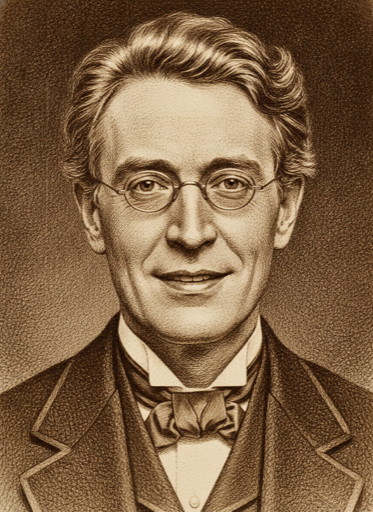
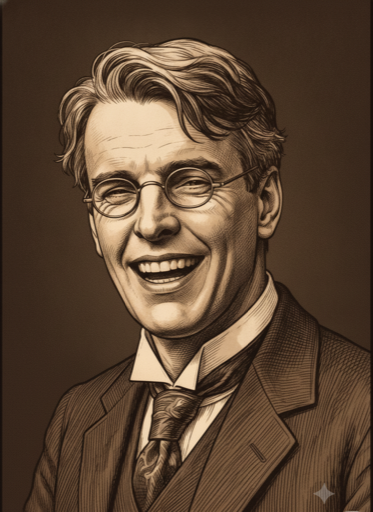
#531: regenerate Yeats reaction portraits against his baseline (closed-mouth angry)

diff --git a/scripts/fix-531-yeats-reactions.js b/scripts/fix-531-yeats-reactions.js
@@ -1,0 +1,80 @@
+'use strict';
+
+// #531 re-audit (2026-10-10) — Yeats is the one member whose promoted reaction
+// set still drifts from his own baseline: yeats.png is a flat, dark-background
+// portrait in a necktie, while yeats-happy/-thinking/-angry have a lighter
+// vignetted background and a bow tie, and -happy also reads as an older man
+// with differently styled hair. Rachel approved regenerating all three,
+// anchored to the canonical baseline only — no new prop, redesign, or outside
+// source (STYLE_GUIDE.md step 6). Blavatsky/Jung minor drifts and Böhme's
+// cool palette were deliberately left alone at her direction.
+//
+// Writes candidates only; per STYLE_GUIDE.md step 5, nothing is promoted until
+// a before/after review Artifact has had human sign-off.
+//
+// Usage: DOTENV_CONFIG_PATH=/path/to/.env node scripts/fix-531-yeats-reactions.js [happy thinking angry]
+
+require('dotenv').config();
+const fs = require('fs');
+const path = require('path');
+const {
+  generatePortraitImage,
+  buildReactionPrompt,
+  REACTION_EXPRESSION_OVERRIDE_META,
+  REACTION_STYLE_SUFFIX,
+  ANGRY_EXPRESSION_SNARL,
+} = require('../src/portrait-generation');
+
+const PORTRAITS_DIR = path.join(__dirname, '..', 'public', 'portraits');
+const CANDIDATES_DIR = path.join(PORTRAITS_DIR, 'candidates');
+
+// Every clause below describes what is visible in yeats.png itself.
+const LOCK =
+  "Keep the reference's exact outfit: dark jacket, white high collar, and a dark necktie (a long four-in-hand necktie — NOT a bow tie). Keep the same wavy swept-back hair, same wire-rimmed round spectacles, and the same apparent age as the reference — do not age him up or restyle his hair. Match the reference's border treatment: borderless, the image runs edge-to-edge with no frame. Match the reference's exact camera distance and crop — same head-and-shoulders framing and amount of torso visible; no hand gestures or props. Match the reference's background exactly: a flat, dark, matte, uniformly toned background edge to edge — no lighter halo behind the head, no vignette, no gradient.";
+
+// Closed-mouth anger that still reads as clearly angry: the plain ICY register came out
+// closer to stern than furious, so this adds concrete facial cues that never need teeth.
+const YEATS_ANGRY =
+  'Expression: unmistakable, controlled fury with the mouth fully closed (no teeth visible at all, no open snarl) — brows driven sharply down and together with a deep vertical crease between them, eyes narrowed and glaring hard straight at the viewer from beneath the lowered brow, head tilted very slightly forward, nostrils flared, lips pressed tight and downturned with the jaw clenched and the muscles at the hinge of the jaw visibly tense, a hard line from nose to mouth corner — a face of cold, seething anger, clearly angry rather than merely stern.';
+
+function buildPrompt(reaction) {
+  // buildReactionPrompt = META + expression + STYLE_SUFFIX; splice LOCK in before the style suffix.
+  let base = buildReactionPrompt(reaction, 'yeats');
+  // Rachel's review of the first angry candidate: the default snarl showed bared teeth.
+  // Yeats's anger is the closed-mouth register (#483), not the snarl.
+  if (reaction === 'angry') {
+    if (!base.includes(ANGRY_EXPRESSION_SNARL)) throw new Error('angry snarl text not found — update this script');
+    base = base.replace(ANGRY_EXPRESSION_SNARL, YEATS_ANGRY);
+  }
+  if (!base.includes(REACTION_STYLE_SUFFIX) || !base.startsWith(REACTION_EXPRESSION_OVERRIDE_META)) {
+    throw new Error('buildReactionPrompt layout changed — update this script');
+  }
+  return base.replace(REACTION_STYLE_SUFFIX, `${LOCK} ${REACTION_STYLE_SUFFIX}`);
+}
+
+async function main() {
+  const apiKey = process.env.GEMINI_API_KEY;
+  if (!apiKey) {
+    console.error('GEMINI_API_KEY not set.');
+    process.exit(1);
+  }
+  fs.mkdirSync(CANDIDATES_DIR, { recursive: true });
+  const referenceImages = [{ mimeType: 'image/png', data: fs.readFileSync(path.join(PORTRAITS_DIR, 'yeats.png')) }];
+  const reactions = process.argv.slice(2).length ? process.argv.slice(2) : ['happy', 'thinking', 'angry'];
+  let failed = false;
+  for (const reaction of reactions) {
+    const id = `yeats-${reaction}`;
+    process.stdout.write(`Generating ${id}... `);
+    try {
+      const buf = await generatePortraitImage({ apiKey, prompt: buildPrompt(reaction), referenceImages });
+      fs.writeFileSync(path.join(CANDIDATES_DIR, `${id}.png`), buf);
+      console.log(`done (${buf.length} bytes)`);
+    } catch (err) {
+      failed = true;
+      console.log(`FAILED: ${err.message}`);
+    }
+  }
+  process.exit(failed ? 1 : 0);
+}
+
+main();

diff --git a/public/portraits/STYLE_GUIDE.md b/public/portraits/STYLE_GUIDE.md
@@ -37,6 +37,7 @@ AI-generated, proof-of-concept register for this stage of the project. Not commi
 ## Changelog
 
 - 2026-09-28 — [#608](https://github.com/msdixon/secret-cabinet/issues/608) provenance correction for the #558 and #569 `thinking` fixups below: `scripts/fix-558-thinking-fixup.js` and `scripts/fix-569-thinking-fixup.js` destructured `REACTION_EXPRESSION_OVERRIDE_META`/`REACTION_STYLE_SUFFIX` from `src/portrait-generation.js`, which never exported them, so the committed scripts sent a literal `undefined` in place of both clauses (no identity lock, no style/anti-vignette suffix); only the reference image and the pose text reached the model. The entries below that describe the pose as layered on via those constants are wrong about what was actually sent. **No canonical portrait today comes from that degraded prompt:** of #558's five outputs (9895f9f), Corbin and Frieda Harris were reverted to pre-#558 versions, Scholem and Pauli were replaced by `fix-558-vignette-fixup.js`, and Dion Fortune by `fix-558-fortune-regrounding.js`, both of which use `buildReactionPrompt` correctly; all of #569's outputs (bd105d5) were reverted in f537f8c. Fixed by exporting both constants, with `test/require-destructure.test.js` guarding against the same silent miss anywhere in `scripts/`/`src/`. No images regenerated.
+- 2026-10-10 — [#531](https://github.com/msdixon/secret-cabinet/issues/531) re-audit: Yeats's `happy`/`thinking`/`angry` still drifted from `yeats.png` (lighter vignetted background, bow tie instead of the baseline necktie, older-looking restyled hair). Regenerated all three anchored to `yeats.png` alone — no new prop, redesign or outside source — via `scripts/fix-531-yeats-reactions.js`, after Rachel signed off on a before/after review. The first `angry` candidate used the default snarl and showed bared teeth; Rachel flagged that anger doesn't need teeth, so Yeats's `angry` uses a closed-mouth text (lowered brow with deep crease, hard glare, tense clenched jaw) and was promoted as her chosen option B. Blavatsky/Jung's minor drift was accepted and Böhme/Bamba left alone at her direction.
 - 2026-09-21 — [#597](https://github.com/msdixon/secret-cabinet/issues/597): converted the 12 remaining bordered roster members (paracelsus, gurdjieff, bohme, yates, catherine-blake, bruno, adorno, william-blake, bamba, frieda-harris, moina-mathers, jung) to borderless, crop-only — no regeneration, inpainting, or resampling; every output pixel is a verbatim pixel of the original. The scope turned out to be 44 of 45 files, not just the baselines: every reaction image carried paper too (`yates-happy.png` was already clean and was left untouched). Per-file margins came from an edge-connected paper flood fill confined to the outer 34 px, then a second pass trimming residual tan rim / inked rule (≤ 6 px per side); each crop was confirmed border-free by looking at native-size and 4× corner views of every file, not by trusting the scan. Crops are **not** resized back to 512 px tall — outputs run 302–356 wide × 472–512 tall (aspect 0.63–0.74). The 3D billboard is a fixed 1.0 × 1.4 plane (`AVATAR_WIDTH`/`AVATAR_HEIGHT` in `scene.js`, aspect 0.71) that stretches whatever texture it gets, so aspect matters slightly — but the roster already spans 0.63–0.81 across all files, and the converted set sits inside that range (bohme's frames, formerly wider than the rest at 382×512, land at 0.74 alongside the others). Deliberately left as-is: the Gemini sparkle watermark in the bottom-right of many files, and 2–3 px dark rounded corner wedges in a few (moina-mathers, jung, bruno-thinking) — both are artwork pixels, not border. Before/after reviewed and approved by Rachel before promotion, per the portrait-edit review requirement. `frieda-harris` overlaps [#574](https://github.com/msdixon/secret-cabinet/issues/574) (still open at time of writing): whoever regenerates her must keep the borderless standard.
 - 2026-09-14 — [#569](https://github.com/msdixon/secret-cabinet/issues/569) reverted: Rachel reviewed the before/after Artifact from the entry below and rejected it. Two specific objections — Llull's added Ars Magna combinatorial wheel diagram read as a "random prop," and the redesign of his face and beard had no identifiable source ("is it from a text? painting? historical mention?"), a question the original fix couldn't answer because none had been sought. Rather than attempt a narrower same-pass fix (removing just Llull's wheel, re-sourcing just the face/beard), her call was to revert all 24 images across all six members to their pre-#569 canonical versions — "the changes are too severe and not clear why they happened" — and treat the whole cluster as needing a properly sourced, human-guided redo rather than a patch. Reverted files restored via `git show bd105d5~1:public/portraits/<id>[<suffix>].png` (the commit immediately before #569's fix). Two of the six members — abulafia and al-hallaj — carried a thin/thick illustrated border on their pre-#569 versions that the rest of the roster no longer has per #571's borderless standard; cropped it off all 8 of their files (base + 3 reactions each) via per-file pixel margins determined by brightness-threshold edge scanning and confirmed border-free by direct visual inspection of every crop, rather than trust the scan alone. Arabi, khaldun, eckhart, and llull's pre-#569 versions were already borderless and used as-is. Added the sourcing requirement to the Baseline register and a pre-generation sign-off step (Process step 6) above as the standing fix, per Rachel: "the next revision needs more human input."
 - 2026-09-14 — [#569](https://github.com/msdixon/secret-cabinet/issues/569): the three moderate-severity distinctiveness clusters [#558](https://github.com/msdixon/secret-cabinet/issues/558) deferred — abulafia/al-hallaj, arabi/khaldun, eckhart/llull (Bruno, named only as context in the issue, already reads distinct and was left untouched) — fixed the same way as #558's severe cluster: a concrete, real, documented biographical prop or physical trait per member rather than an invented one (`scripts/fix-569-portrait-distinctiveness.js`). Abulafia got a Hebrew-letter-permutation scroll (his signature Chokhmat ha-Tzeruf technique); al-hallaj a patched Sufi ascetic's cloak (khirqa/muraqqa) replacing a generic robe; arabi rendered elderly and inwardly absorbed rather than young and outward-facing (he wrote his major visionary works and died at 75 in Damascus); khaldun a seal-ring/sealed scroll of appointment (Grand Qadi of Cairo, negotiated with Tamerlane in 1401); eckhart an open Middle High German manuscript page (he broke scholastic convention by preaching in the vernacular); llull a diagram of his own Ars Magna combinatorial wheel. All three reactions regenerated per member, anchored to each new base. Two recurring failure modes from #558 resurfaced here, both worth noting since neither was fully solved by carrying forward #558's own fix: **(1) vignette regression despite the composition suffix already including anti-vignette wording from the start** (copied verbatim from `fix-558-vignette-fixup.js`, unlike #558's own first pass which lacked it entirely) — al-hallaj and arabi's regenerated bases still came back with a bright halo around the subject darkening toward the corners. Rewording the clause to name the actual defect shape explicitly (a halo around the subject, not "lightening toward the corners" as the original ambiguously put it) fixed al-hallaj on the first retry, but arabi needed a second regeneration attempt with the identical reworded prompt before it resolved — confirming a real stochastic component to this failure mode, not purely a wording gap (`scripts/fix-569-vignette-fixup.js`). **(2) The `thinking` reaction read too close to the member's own neutral base** for al-hallaj, arabi, and eckhart specifically (not abulafia, khaldun, or llull, which showed genuine head-turn/averted-gaze differentiation on the first pass) — the same member-dependent gap #558's `fix-558-thinking-fixup.js` and #450 batch 3 both hit before. Fixed by layering an explicit physical pose (head-turn, gaze cast away) onto the expression text via `REACTION_EXPRESSION_OVERRIDE_META`/`REACTION_STYLE_SUFFIX` (`scripts/fix-569-thinking-fixup.js`). Al-hallaj and arabi resolved on the first pass; eckhart's first attempt still read as a near-frontal face with only the eyes diverted rather than an actual head rotation, and needed a second pass with more explicit "rotate the head, not just the eyes" wording before the turn read clearly. All 24 candidates (6 members × base + 3 reactions) confirmed on review against the rest of the roster and promoted.

diff --git a/docs/status/fragments/531-yeats-reaction-drift.md b/docs/status/fragments/531-yeats-reaction-drift.md
@@ -1,0 +1,1 @@
+[#531](https://github.com/msdixon/secret-cabinet/issues/531) re-audit: Yeats's three reaction portraits were the only remaining per-member drift from the baseline (background vignette, bow tie vs. necktie, hair/age) and were regenerated anchored to `yeats.png`, with `angry` rendered closed-mouth instead of the default bared-teeth snarl after Rachel's review. Other members' minor drifts were accepted or left alone.
